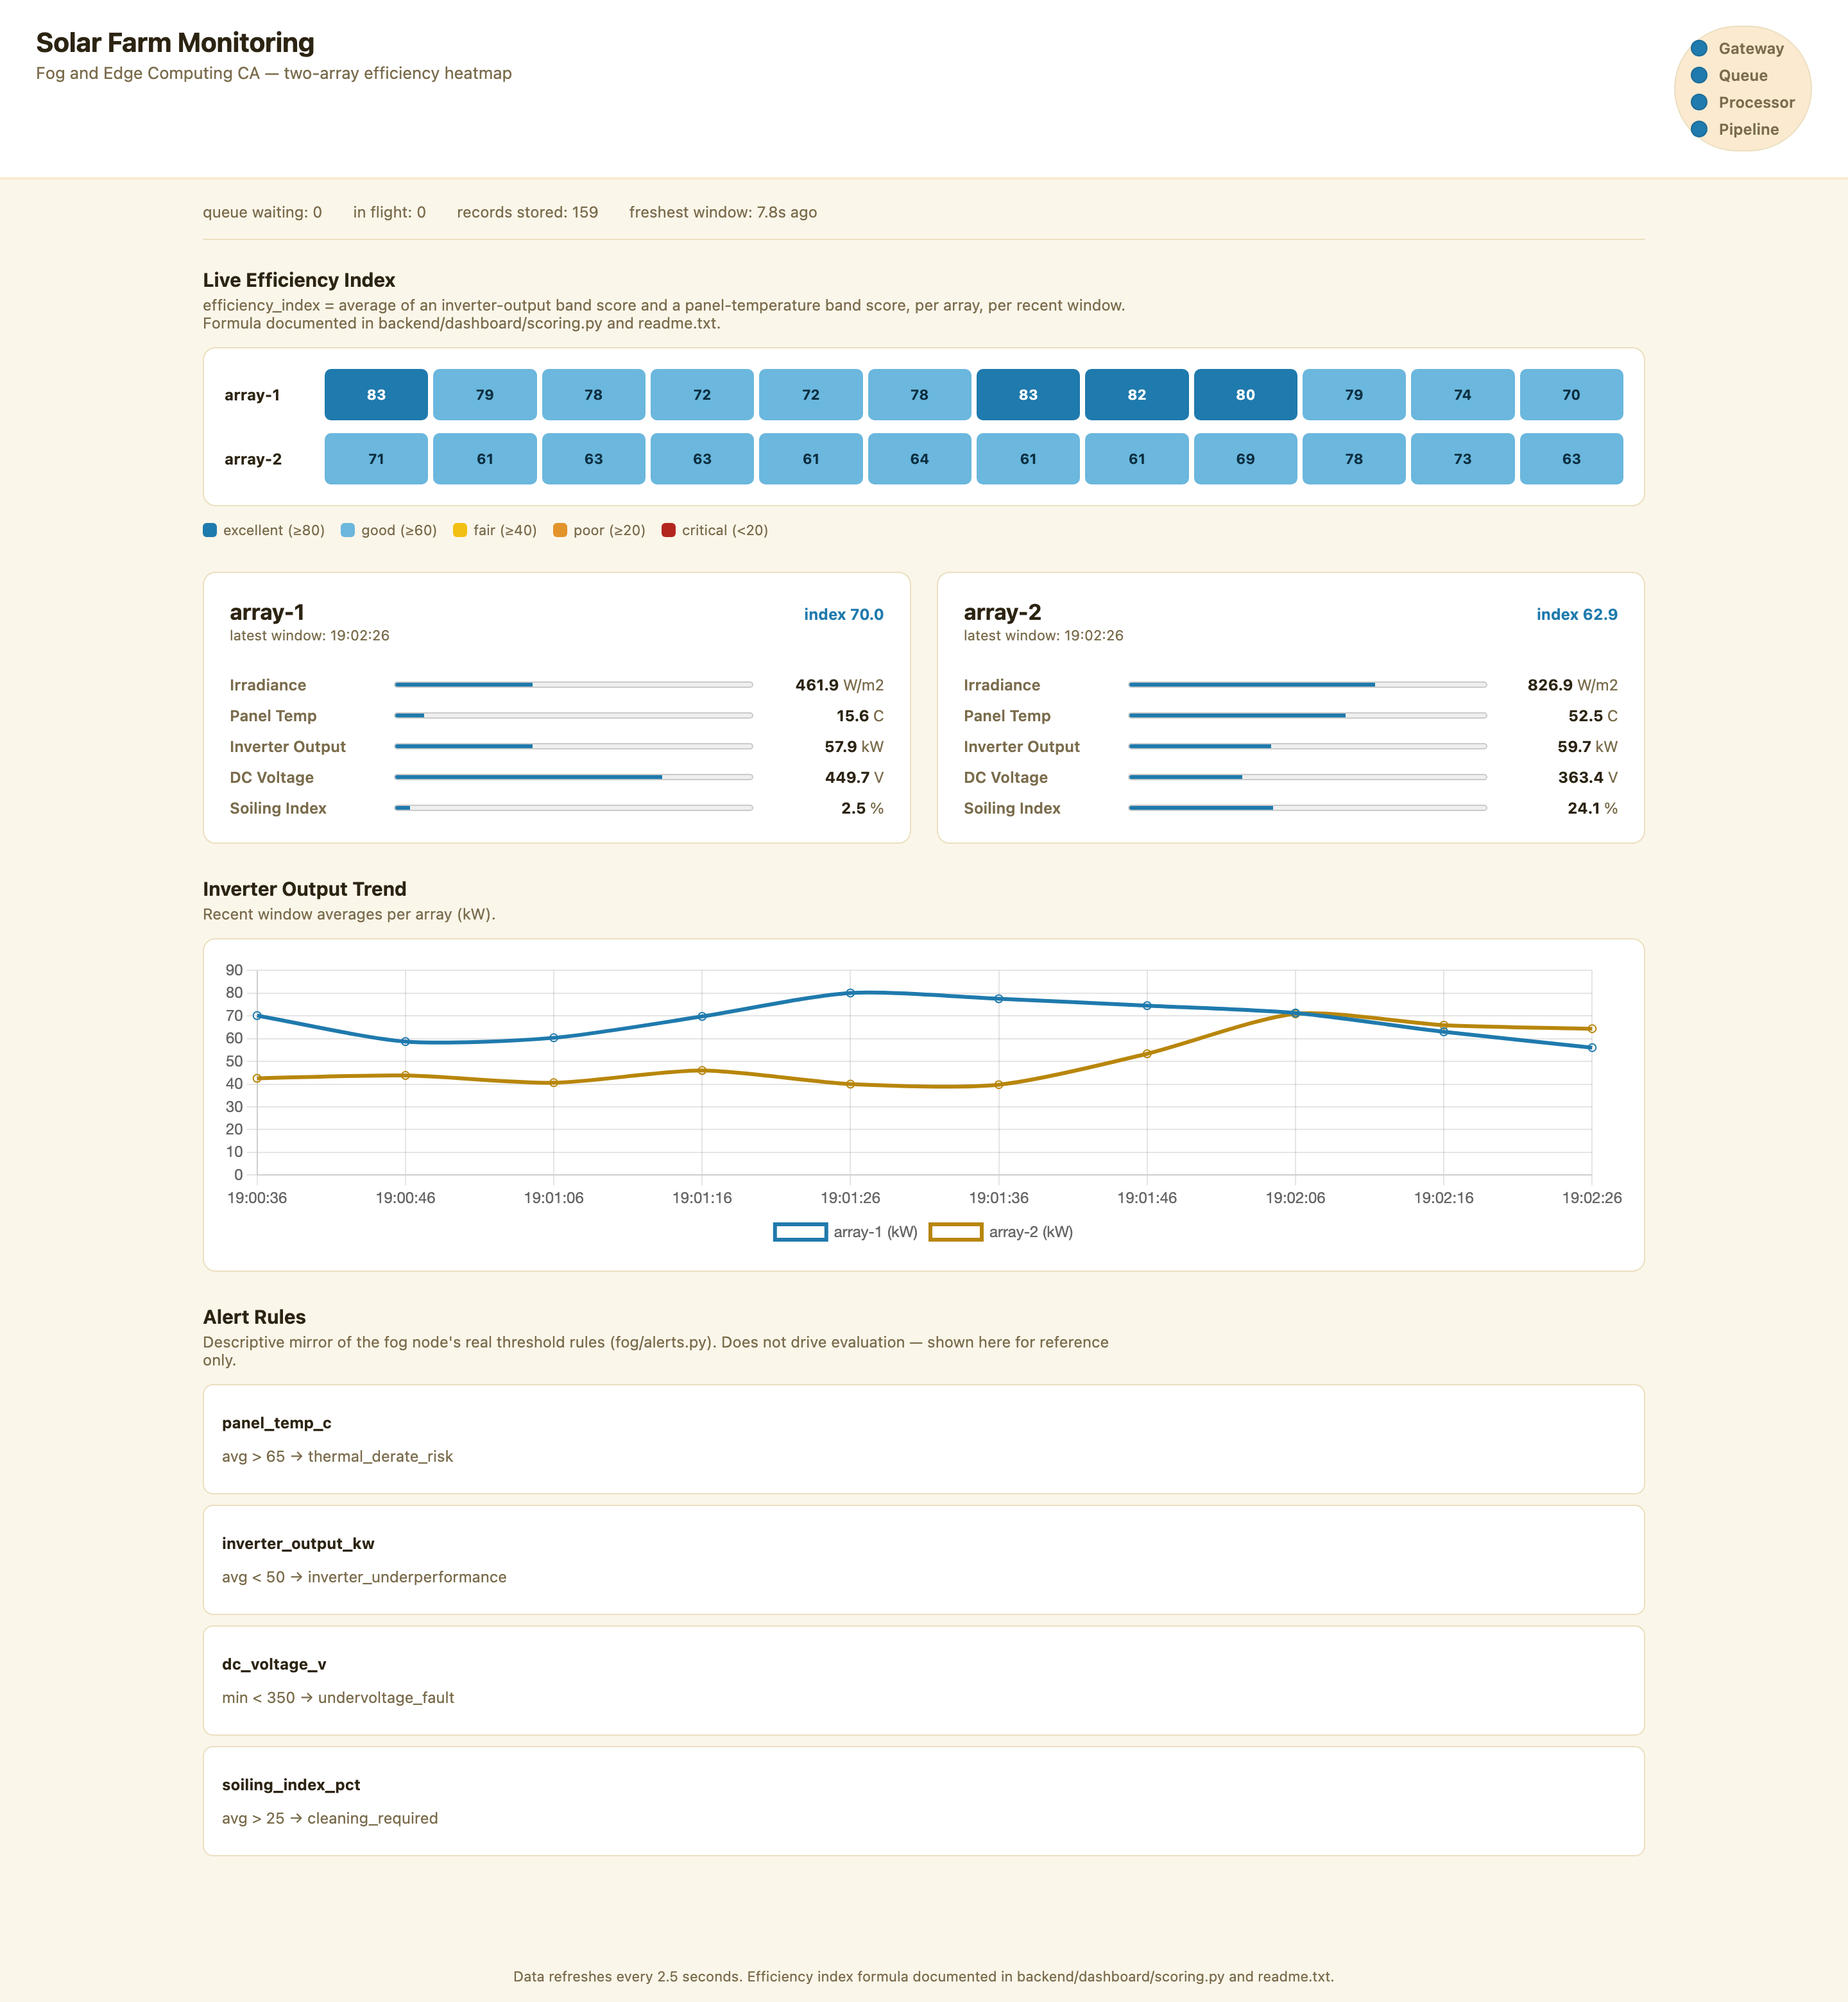
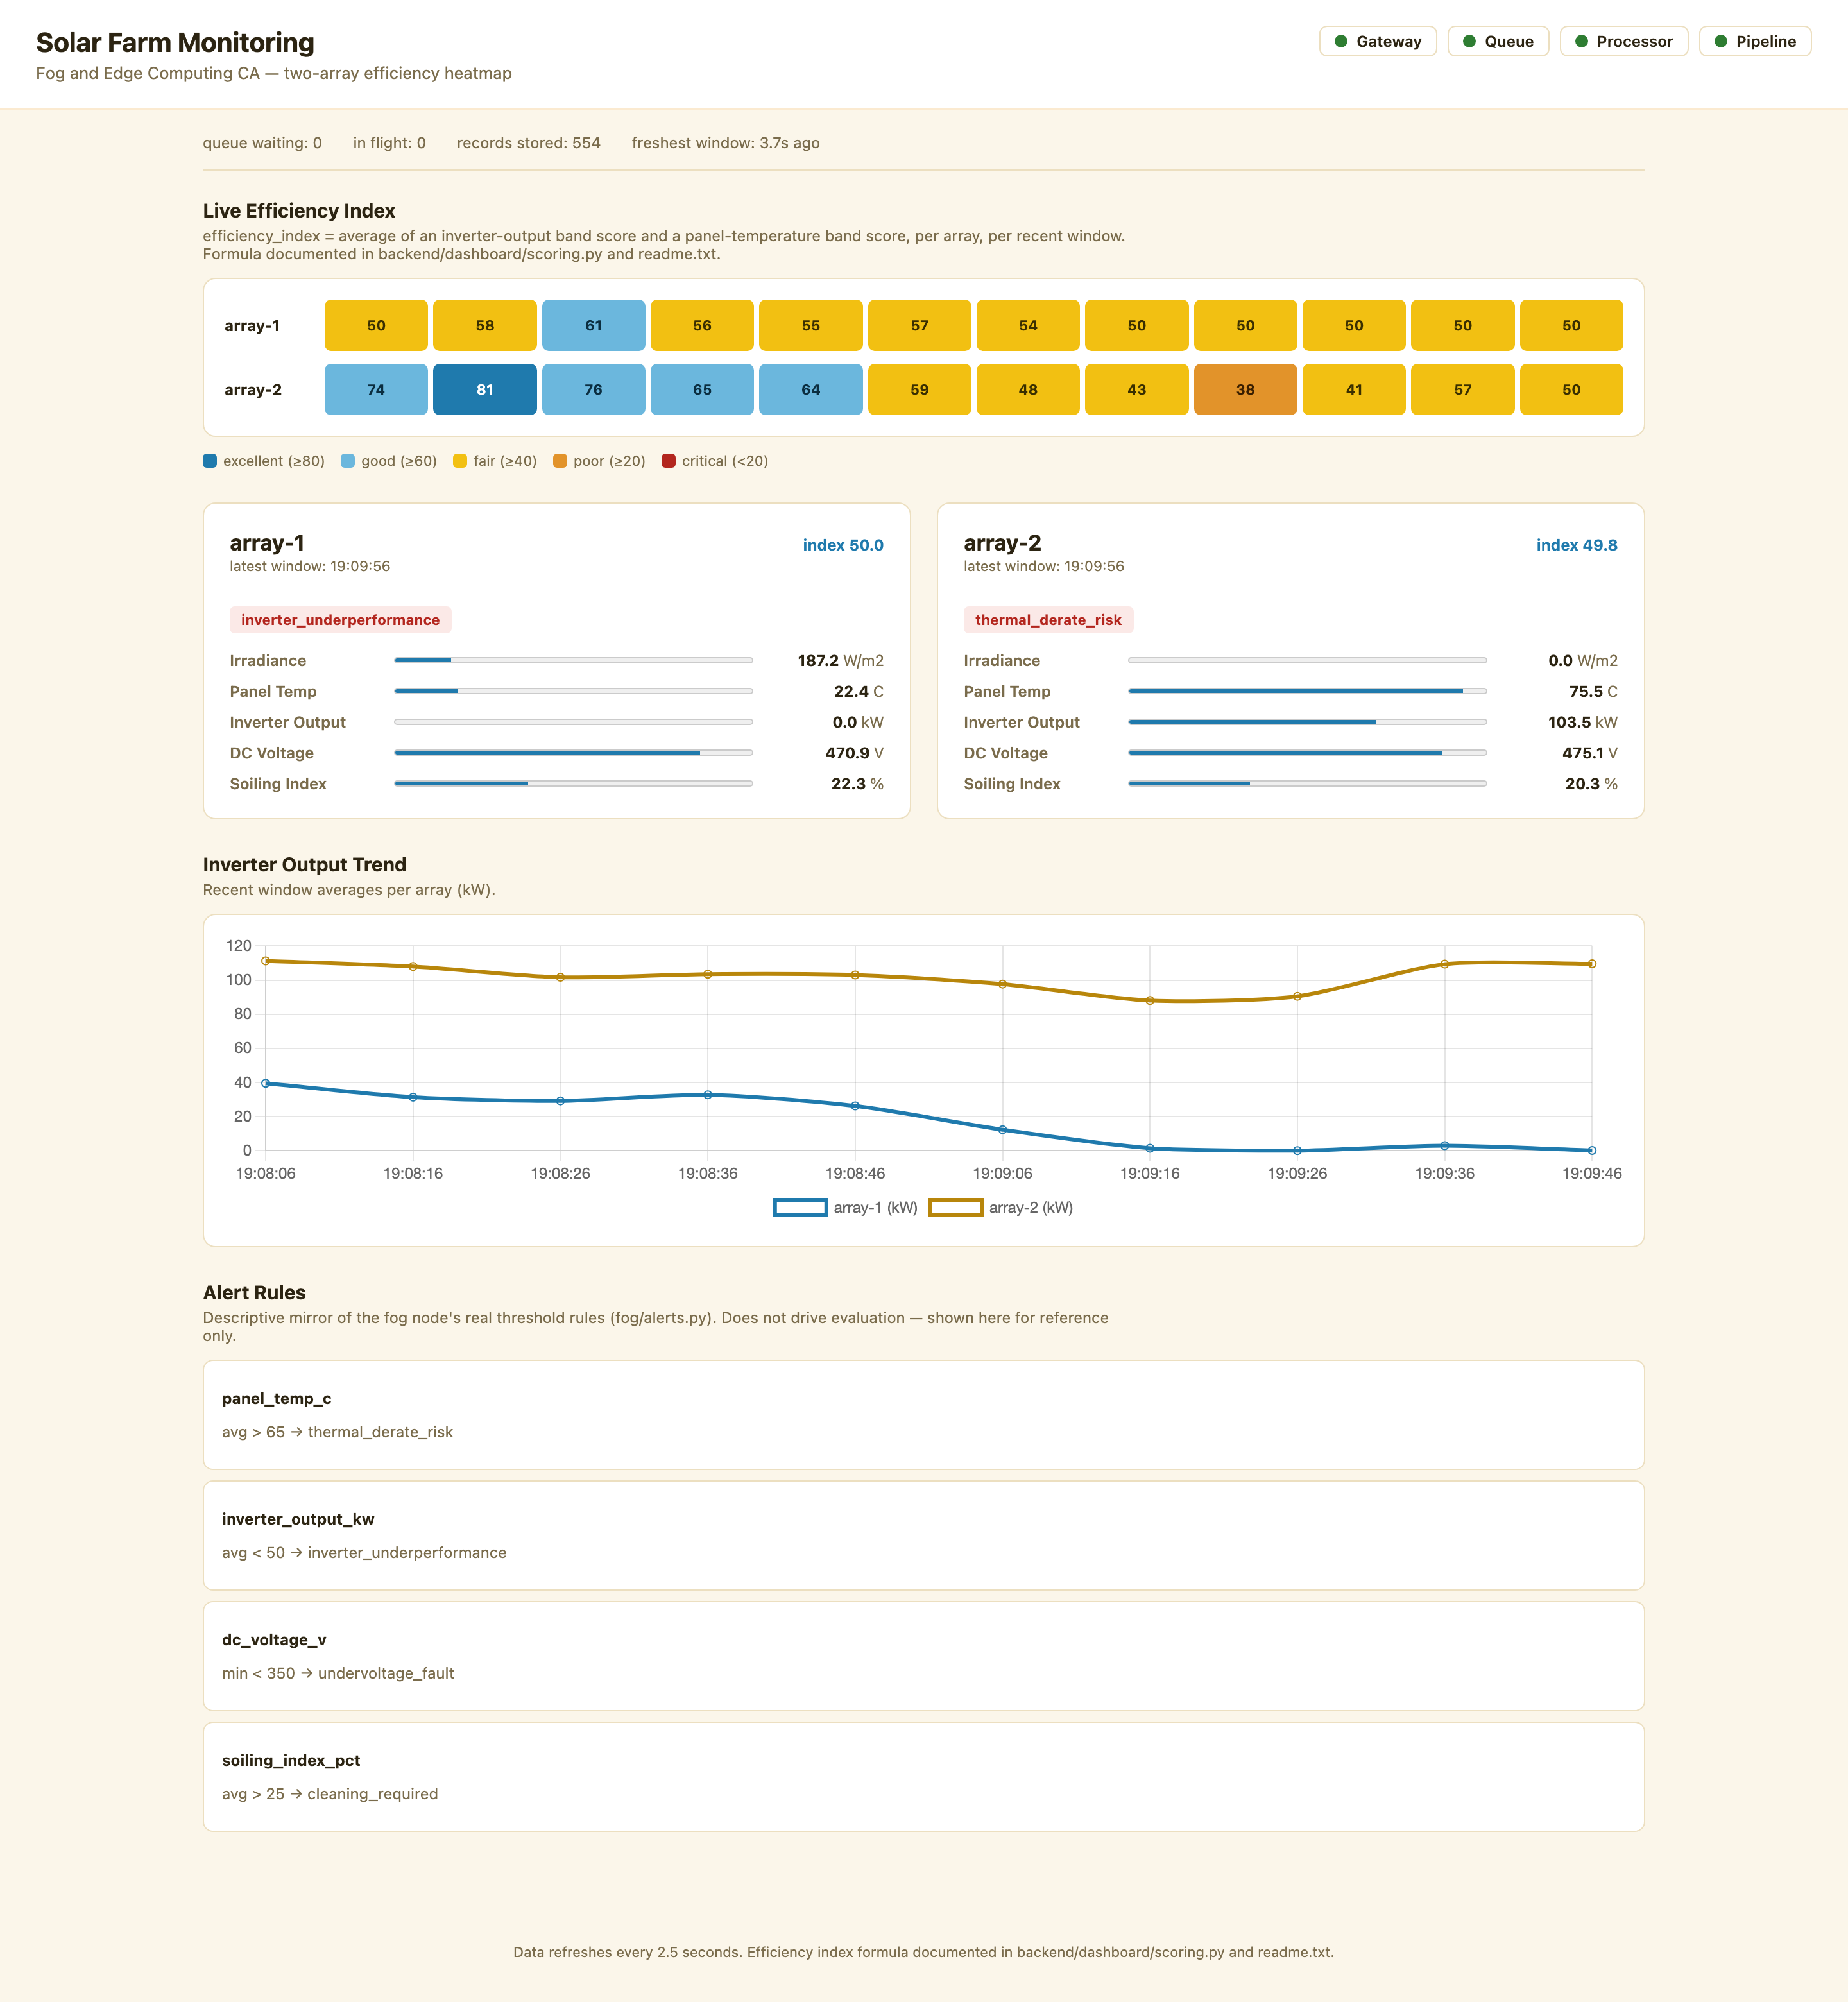
Redesign solar-farm dashboard health readout: clean horizontal pills with green=healthy/red=down status (was blue dots in a beige circle); re-upload frontend, re-capture live figure

diff --git a/projects/17-solar-farm-monitoring/backend/dashboard/static/style.css b/projects/17-solar-farm-monitoring/backend/dashboard/static/style.css
@@ -10,6 +10,8 @@
   --sky-soft: #e3f1f9;
   --alert: #b3261e;
   --alert-soft: #fbe9e7;
+  --ok: #2e7d32;
+  --ok-soft: #e8f3e9;
 
   --band-excellent-bg: #1f7aad; --band-excellent-fg: #ffffff;
   --band-good-bg: #6bb7dd;      --band-good-fg: #0b2e40;
@@ -47,27 +49,35 @@ h1, h2, h3 { font-family: var(--font); }
 
 .health-column {
   display: flex;
-  flex-direction: column;
+  flex-direction: row;
+  flex-wrap: wrap;
   gap: 8px;
-  align-items: flex-start;
-  padding: 10px 12px;
-  background: var(--accent-soft);
-  border: 1px solid var(--border);
-  border-radius: 999px;
+  align-items: center;
 }
-.health-lamp { display: flex; align-items: center; gap: 9px; font-size: 12px; font-weight: 600; color: var(--text-muted); }
+.health-lamp {
+  display: flex;
+  align-items: center;
+  gap: 7px;
+  font-size: 12px;
+  font-weight: 600;
+  color: var(--text);
+  padding: 5px 11px;
+  border-radius: 6px;
+  border: 1px solid var(--border);
+  background: var(--card-bg);
+}
 .health-lamp-label { line-height: 1; }
 .dot {
-  width: 13px;
-  height: 13px;
+  width: 10px;
+  height: 10px;
   border-radius: 50%;
   background: #cfc4a0;
   display: inline-block;
   flex-shrink: 0;
-  box-shadow: inset 0 0 0 1px rgba(0, 0, 0, 0.12);
 }
-.dot.ok { background: var(--sky); }
+.dot.ok { background: var(--ok); }
 .dot.down { background: var(--alert); }
+.health-lamp.is-down { border-color: var(--alert); background: var(--alert-soft); color: var(--alert); }
 
 main { padding: 4px 28px 32px; max-width: 1180px; margin: 0 auto; }
 

diff --git a/projects/17-solar-farm-monitoring/backend/dashboard/static/dashboard.js b/projects/17-solar-farm-monitoring/backend/dashboard/static/dashboard.js
@@ -20,6 +20,8 @@ function setDot(id, ok) {
   const el = document.getElementById(id);
   el.classList.remove("ok", "down");
   el.classList.add(ok ? "ok" : "down");
+  const lamp = el.closest(".health-lamp");
+  if (lamp) lamp.classList.toggle("is-down", !ok);
 }
 
 function formatNumber(value, digits) {